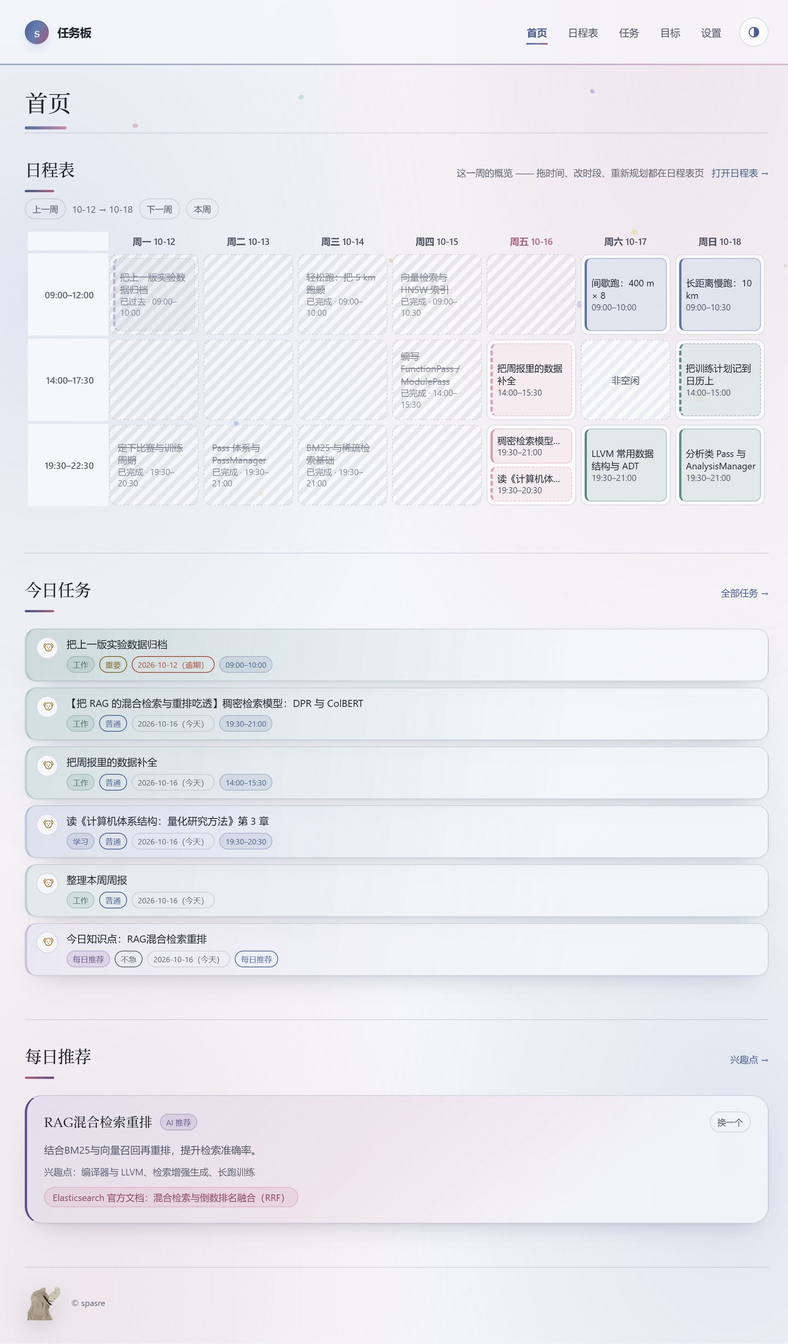
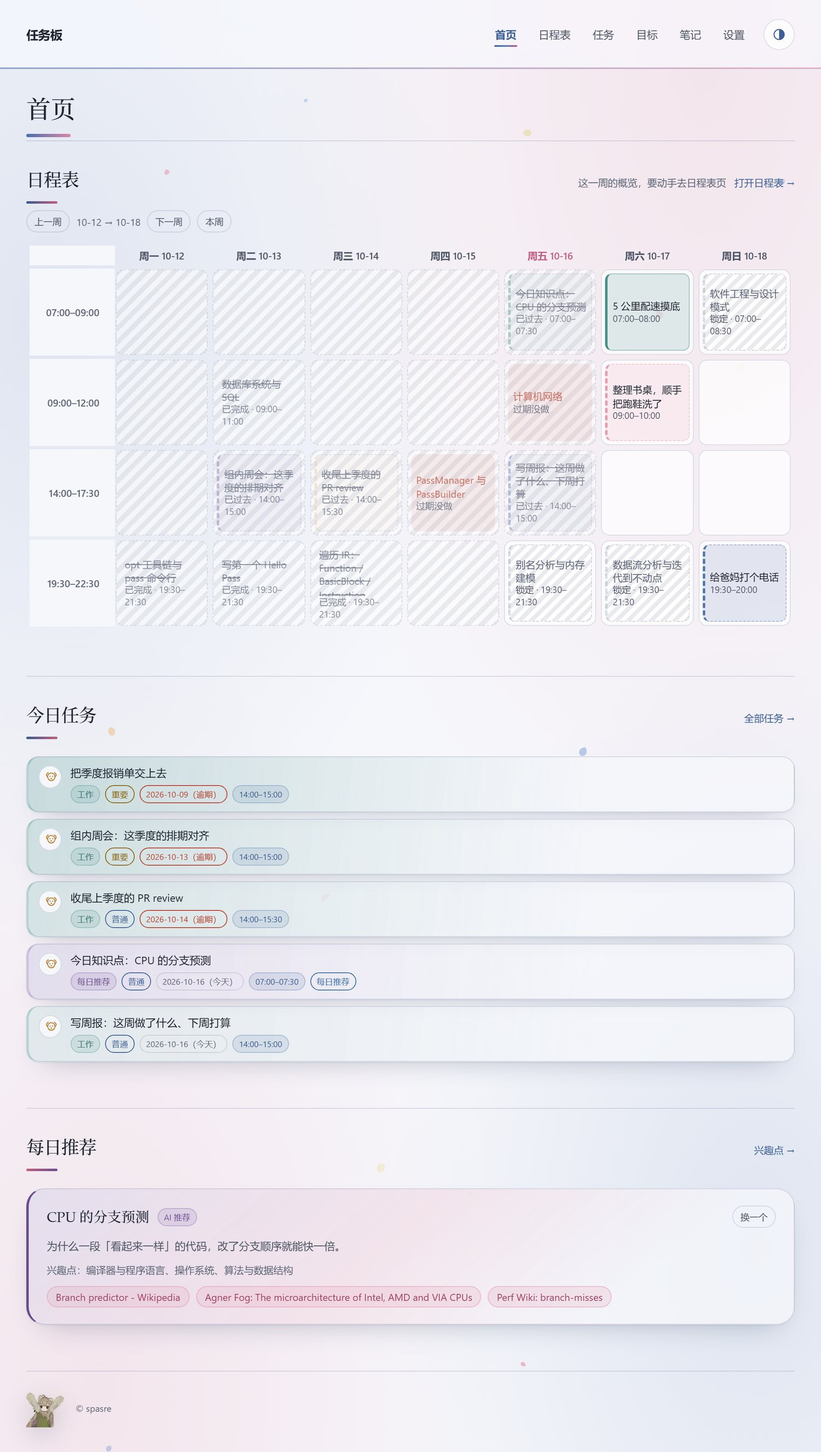
README 配图重拍（含笔记页与新建目标向导），文档补齐
10 张图重拍，示范数据重造了一份（3 个目标 27 个知识点、四个分类、前后两周都排满，外加 5 篇笔记）：

- 新增 notes.jpg（笔记页：分类 / 列表 / 编辑，挂着知识点的那篇）和 wizard.jpg（新建目标第三步：
  文本大纲 + 跟助手改稿的对话框 + 改完重画的路线图）。
- 周视图换更宽的视口截，七天都看得见（之前窄窗口下周四天被挤到横向滚动里）；任务页整页截，
  右下角那个 ＋ 也就落在该在的位置上了；目标页只截一张半卡片；月视图单独一张大图；
  日视图把 24 小时全摊出来。
- 页眉没「s」了，图跟着重拍一遍。

README：

- 补「### 新建目标：两种起手式」「### 笔记页」「④ plan.outline（改 / 读）」，几个页面表加笔记页。
- 修掉和现状对不上的地方：第三步现在带改稿对话框、四步向导第一步改成「目标」、延伸阅读入口只剩
  点任务标题（「资料」角标早就不存在了）、数据表补 store.notes / 笔记分类 / spasre-tasks-dirty、
  同步那一节补「本地比后端新就把本地推上去」。
- QUICKSTART：第三步拆成两种起手式的写法，补一节笔记页。
- DEVELOPMENT：目录结构补 notes.html / notes.js / plan_outline.py，技能怎么被用上补两行，
  路线图那一节补「画完后注入的三段样式与笔记按钮」，新增「数据存在哪、切页和多标签怎么不打架」。

diff --git a/README.md b/README.md
@@ -4,7 +4,7 @@
 
 它最不一样的地方是**把「长期目标」当成一等公民**：你说一句「我想学会写 LLVM 优化 pass」，它给你拆成一条带前置依赖的知识点路线，画成一张可以缩放的路线图，按你每周能投入的时间**整份排进日程表**，之后你在表上拖一拖改时间就行。想清楚了再执行，而不是每天对着一个空清单发呆。
 
-<img src="./assets/images/readme/home.jpg" alt="首页：这一周的概览 + 今日任务 + 每日推荐" width="720">
+<img src="./assets/images/readme/home.jpg" alt="首页：这一周的概览 + 今日任务 + 每日推荐" width="780">
 
 ## 规划是怎么做出来的
 
@@ -14,60 +14,84 @@
 
 **② `diagram.roadmap`（画路线图）** —— 把上面那张 DAG 交给后端，用 vendored 的 **Archify**（`skills/vendor/archify`，它会把图校验一遍再渲染）画成一张**能缩放、能导出的独立 HTML**，直接嵌在目标卡里：
 
-<img src="./assets/images/readme/roadmap.jpg" alt="Archify 画出来的学习路线图：分阶段的节点 + 前置连线，独立 HTML，能缩放也能导出" width="720">
+<img src="./assets/images/readme/roadmap.jpg" alt="Archify 画出来的学习路线图：分阶段的节点 + 前置连线，做完的知识点描边标绿、角上带 ✓ 已完成；独立 HTML，能缩放也能导出" width="780">
 
 **③ `reading.suggest`（找延伸阅读）** —— 每一条知识点（或任务）的「延伸阅读」都由配好的模型现找，后端的 `reading.suggest` 会**挨个真去请求一遍**，404 / 连不上的直接丢掉，所以编出来的链接回不来：
 
-<img src="./assets/images/readme/reading.jpg" alt="延伸阅读：助手找的三条资料，都验证过能打开" width="720">
+<img src="./assets/images/readme/reading.jpg" alt="延伸阅读：点任务标题就能看助手现找的资料，每条都是它真去请求过的" width="780">
 
 > 没配模型也能用：`learn.curriculum` 有内置的模板兜底（按「打基础 → 上手练习 → 深入原理 → 综合实践 → 输出总结」五步排），拆任务、挑推荐知识点也都有本地方案。只有「延伸阅读」和「路线图」需要后端在跑。
 
-## 五个页面
+**④ `plan.outline`（改 / 读）** —— 手上那份大纲要改一版，或者要把别处的规划读成知识点，都走它。回来的还是同一份大纲格式（前置写标题，前端换成 id），所以改完路线图能马上跟着重画。
+
+### 新建目标：两种起手式
+
+点右下角 ＋ → 新建目标，先选用哪种：
+
+- **① 先定方向**：只写目标名，加一句补充说明就够。点「下一步」先把大纲出好，顺手按「每条约 1.5 小时 ÷ 每周投入」给一个建议完成时间（先试 `learn.curriculum`：硬核领域它会先抓一份教程大纲再拆）。
+- **② 粘贴现成规划**：在别处（另一个 AI、教程、课程安排）聊好的计划，整段贴进来。助手读一遍拆成知识点，把原文里的先后关系、时间范围一起带出来，再用一句话说清「读到了什么、哪处不确定要你核对」。
+
+**第三步两条路一样**：大纲和路线图摆在那儿，下面一个对话框，跟助手一句句改（「第 2 条拆细一点」「太细了，合并一下」「再加一条：读源码」），改完大纲和路线图一起更新；直接改列表里的标题 / 链接也行。觉得可以了按「下一步」，最后「完成，去日程表安排」—— 知识点整份排进日程表。
+
+<img src="./assets/images/readme/wizard.jpg" alt="新建目标第三步：文本大纲、跟助手一句句改稿的对话框，和改完重画的学习路线图" width="780">
+
+## 各个页面
 
 | 页面 | 干什么 |
 | --- | --- |
 | **首页** `index.html` | 这一周日程表的概览 + 今日任务 + 今日推荐的知识点（配图见最上面那张） |
 | **日程表** `schedule.html` | 周 / 日 / 月三种看法，拖时间、改时段、重新规划、待安排都在这页 |
-| **任务** `tasks.html` | 全部任务（今天 / 明天 / 本周内 / 以后 / 未排期），写一句话丢给助手就能拆成几条 |
+| **任务** `tasks.html` | 全部任务（今天 / 明天 / 本周内 / 以后 / 未排期），每条都能开一篇笔记 |
 | **目标** `goals.html` | 长期目标 → 知识点大纲 → 学习路线图 → 同步进日程表 |
+| **笔记** `notes.html` | 分类管着的一堆笔记，能挂到具体任务或知识点上 |
 | **设置** `settings.html` | 兴趣标签（含每日推荐开关）、助手配置与导入导出、外观（密度 / 字号） |
 
 新建任务、新建目标都收在右下角的 **＋** 里；主题（跟随系统 / 亮色 / 暗色）在页眉右上角的圆按钮上循环切。
 
 ### 日程表：一周怎么用
 
-<img src="./assets/images/readme/schedule-week.jpg" alt="周视图：一列一天，一行一段时间（划成非空闲的格子是灰斜纹）" width="720">
+<img src="./assets/images/readme/schedule-week.jpg" alt="周视图：一列一天，一行一段时间（做完的是绿字，过期的红字，划成非空闲的格子是灰斜纹）" width="780">
 
 - **单元格 = 一天 × 一段时间**。一天切成哪几段（这里是 09:00–12:00 / 14:00–17:30 / 19:30–22:30）在设置里改，或点行首的时间标签就地改。
 - **拖任务块 = 换时间**：拖到空闲格子上松手就换过去（能接的格子会变虚线）。一格能叠好几项，但**总时长不能超过这一段**，超了会提示然后撤销这次操作。
-- **点空格 = 划成非空闲**（再点一下放开），默认按「每周这一天」记：划掉周四晚，以后每周四都算忙，排期自动绕开。
+- **点空格 = 划成非空闲**（再点一下放开），**默认按「每周这一天」记**：划掉周四晚，以后每周四这一格都算忙，排期自动绕开。
 - **待安排**在最上面：还没排期的知识点、以及在任务页点过「加入日程表」的任务都列在这儿，拖进格子就排好了。
 
 ### 日程表：日视图
 
 一天 24 小时摊成一条时间轴（像日历那样），每一段按自己的开始 / 结束时刻画成一块，里面摆当天排在这段上的知识点和任务；红线是「现在几点」。这一屏只用来「看」，排任务都在周视图那张表上做：
 
-<img src="./assets/images/readme/schedule-day.jpg" alt="日视图：24 小时时间轴，任务落在对应时段里" width="720">
+<img src="./assets/images/readme/schedule-day.jpg" alt="日视图：一天 24 小时摊成一条时间轴，任务落在自己的时段里" width="780">
 
 ### 日程表：月视图
 
 一天一格，格子里一个**彩点**表示那天的完成情况 —— 蓝=有安排还没做、**绿=全做完**、红=有逾期没做、灰=没安排；格子右下角写 `已完成/总数`，鼠标移上去列出那天具体有什么，点一下就钻到那天的日视图：
 
-<img src="./assets/images/readme/schedule-month.jpg" alt="月视图：一天一格，彩点看完成情况，格子里写着已完成/总数" width="720">
+<img src="./assets/images/readme/schedule-month.jpg" alt="月视图：一天一格，彩点看完成情况，格子里写着已完成/总数" width="780">
 
 ### 任务页
 
-<img src="./assets/images/readme/tasks.jpg" alt="任务页：按时间分组（已逾期/今天/明天/本周内/以后/未排期），每条能加入日程表、编辑、删除" width="720">
+<img src="./assets/images/readme/tasks.jpg" alt="任务页：按时间分组（已逾期/今天/明天/本周内/未排期），四个分类各一种颜色，每条能改时段、开笔记、编辑、删除" width="780">
+
+### 笔记页
+
+笔记分门别类放着：左边是分类（默认「随手记 / 复盘 / 资料」，可以自己加），中间是这个分类下的笔记列表，右边直接写。
+
+<img src="./assets/images/readme/notes.jpg" alt="笔记页：左边分类、中间列表、右边编辑，能建分类、能关联任务或知识点" width="780">
+
+- **和任务、知识点挂上**：在任务卡上点「笔记」，或者在路线图的节点面板上点「笔记」—— **已经有笔记就打开那一篇，没有就新建一篇**（标题自动用任务名 / 知识点名，关联也一起记上）。
+- 笔记能改分类（下拉最后一项是「＋ 新建分类…」），也能重新选关联的任务；列表里会写清这篇挂在哪。
+- 写完自动存（停手 0.6 秒落盘），跟着看板数据一起进后端，换台设备打开也是这些。
 
 ### 目标页
 
 目标卡：上面是「下一个」和进度，下面就是知识点大纲（默认折叠）和嵌在卡里的学习路线图：
 
-<img src="./assets/images/readme/goals.jpg" alt="目标页：目标卡里的「下一个」、文本大纲，和嵌在卡里的学习路线图" width="720">
+<img src="./assets/images/readme/goals.jpg" alt="目标页：目标卡里的「下一个」、文本大纲，和嵌在卡里的学习路线图" width="780">
 
 ## 计划生成好了，你能怎么改
 
-这一版特意**没做**「在页面上手工加删知识点」那种编辑器 —— 计划是生成出来给你执行和微调的，不是拿来当画板画的。能改的地方是这些：
+计划是生成出来执行和微调的，不是拿来当画板画的。能改的地方是这些：
 
 - **改时间**：日程表上把任务块拖到别的格子；或者点任务卡上的「改时段」，会跳到它所在的那一周/那一天并打开面板，在面板里挑日期 / 时段 / 时长。一格容量超了会被挡下来。
 - **改时间段**：点日程表行首的时间标签（或「添加时间段」）就地改开始 / 结束、删掉、加一段；有重叠、没填完、结束早于开始都不让保存，顶部会说清哪儿不对。
@@ -104,8 +128,9 @@ python server.py --lan      # 双击 serve.ps1 也行；--lan 让同一个 WiFi 
 
 | 位置 | 内容 |
 | --- | --- |
-| `config/data.json` | 全部数据：任务、回收站、长期目标与知识点、日程表（`schedule.busy` = 用户划掉的非空闲段）、分类、设置、兴趣点、当日推荐（带一个自增的 `rev` 版本号） |
+| `config/data.json` | 全部数据：任务、回收站、长期目标与知识点、**笔记与笔记分类**、日程表（`schedule.busy` = 用户划掉的非空闲段）、分类、设置、兴趣点、当日推荐（带一个自增的 `rev` 版本号） |
 | `localStorage["spasre-tasks-v1"]` | 同一份数据的兜底副本，只在后端不可达时用（比如 `serve.ps1 -Static` 起的纯静态服务） |
+| `localStorage["spasre-tasks-dirty"]` | 本地改动还没推上去的时间戳（跟后端那份比谁新用，推上去了就清掉） |
 | `.env`（项目根目录） | 助手配置（接口地址 / 模型 / 密钥），后端读写的就是这个文件 |
 | `localStorage["spasre-theme"]` | 明暗模式偏好（`light` / `dark`；没这项就是跟随系统） |
 | `localStorage["spasre-look"]` | 外观：密度（`comfy` / `compact`）和字号（`small` / `normal` / `large`） |
@@ -119,7 +144,7 @@ python server.py --lan      # 双击 serve.ps1 也行；--lan 让同一个 WiFi 
 同步怎么走：
 
 - 打开页面先用本地那份画出来，接着拉后端：后端有数据就以后端为准重画；后端是空的而本地有数据，就把本地这份推上去（第一次迁移）。
-- 之后任何改动都是「先写本地，再防抖 400ms 推后端」。
+- 之后任何改动都是「先写本地，再防抖 400ms 推后端」。**本地这份还没推上去时（比如刚点完完成就切页、或者那一下写盘没成功），本地的时间戳更新，刷新后会反过来把本地推上去**，不会被后端那份旧的盖回来；切页 / 关标签页前还会用 `sendBeacon` 把攒着的改动补推一次。
 - 页面每 5 秒轮询一次，`rev` 比本地新就整份换掉并重画 —— 所以在手机上加一条任务，电脑上最多 5 秒就能看到。
 - 写盘偶尔会失败（Windows 上目标文件被杀软 / 索引器短暂占住，`os.replace` 会报 WinError 5）：后端会退避重试几次，前端推不上去也会隔 700ms 再试两次，别让改动悄悄丢掉。
 - 后端没起（纯静态）时全部逻辑照旧走本地，不会报错。
@@ -150,9 +175,11 @@ python server.py --lan      # 双击 serve.ps1 也行；--lan 让同一个 WiFi 
 
 ## 长期目标是怎么排出来的
 
-新建目标是一个四步向导（右下角 ＋）：**学习目标 → 预期完成时间 → 大纲 → 每日任务**。
+新建目标是一个四步向导（右下角 ＋）：**目标 → 完成时间 → 大纲 → 每日任务**。第一步先选怎么起手（见上面「新建目标：两种起手式」）：只写一句方向，或者把别处聊好的规划整段贴进来。
 
-**进第三步就一次做完，没有单独的按钮**：生成知识点 → 拼出大纲 → 画学习路线图，状态行里报进度（例：`14 个知识点 · 模型生成 · 学习路线图 3.5 秒`）。三步里的第一步由 `generateNodes()` 完成：**模型 → 后端 `learn.curriculum` 技能 → 内置模板**，逐级回退。
+**第三步一次做完**：生成知识点 → 拼出大纲 → 画学习路线图，状态行里报进度（例：`14 个知识点 · 模型生成 · 学习路线图 3.5 秒`）。知识点由 `generateNodes()` 出：**模型 → 后端 `learn.curriculum` 技能 → 内置模板**，逐级回退。
+
+- 第三步的**对话框**就是改稿的地方：说一句要改什么（「第 2 条拆细一点」「太细了，合并一下」「再加一条：读源码」），它走 `plan.outline` 改完大纲、顺手把图重画一版，来回几轮都行；也可以直接在下面的列表里改标题 / 链接 / 删节点。用「粘贴现成规划」起手的话，进第三步第一眼就是它读出来的那份，不合适接着聊着改。
 
 - 每个节点带一条**教程链接**（模型挑的，或技能阶段资料来源），生成后可以在下面的列表里**改标题、改链接、删节点**，上面的大纲跟着变；这时挂着的那张图会被标成旧的，旁边出现「重新画一张」。（**结构本身（加删知识点、连 / 断前置）不在页面上改**：想换一套计划就按目标卡上的「重新生成计划」。）
 - 学习路线图交给后端的 `diagram.roadmap`（Archify）：画成一张能缩放、能导出的 HTML，画完就在向导里内嵌预览。地址存进目标的 `diagram` 字段，**目标卡上默认就把图摆出来**（点「收起路线图 / 展开路线图」折叠；重画卡片会把 iframe 接过来接着用，不会每次都重新加载）。卡上还没有图时（比如节点改过、旧图作废了），那儿会留一个 **「画一张路线图」**，点一下现画，不用绕回向导。
@@ -162,18 +189,18 @@ python server.py --lan      # 双击 serve.ps1 也行；--lan 让同一个 WiFi 
 - 第四步的按钮是 **「完成，去日程表安排」**：**计划在这一步就整份排好**（按空段把知识点一个个排进去，不用自己拖），然后**直接跳到日程表页** —— 在那儿看着改就行；没有空位的会留在日程表顶上的「待安排」里，放开一些时间再按「同步」/「重新规划」。已经全部排好的目标（比如回头编辑）就不跳了，只留一行状态。
 - 目标卡右上角的 **「同步」** 用来把还没排期的知识点排进空段（别的目标手上排好的不动）。**「重新生成计划」之后也会顺手排好一整份**，不用再点一次同步。**第一次排期会先弹一个设置面板**（见下面「第一次排期」）。
 - 卡上还有一行 **「下一个」**：现在该做哪个知识点、排在什么时候、一共完成几个，一眼看完；大纲收在标题下面（默认折叠，点「文本大纲」展开，展开就是整份计划 —— 不截高度），图摆在它上面。
-- **路线图是只读的**：知识点、前置（图上的边）都只在生成 / 「重新生成计划」时定一次，页面上不提供加删或连断 —— 想换一套，就按目标卡上的 **「重新生成计划」** 让助手按当前目标重排一份（旧的排期会被新计划覆盖），或者干脆「删除」后重新建一个目标。
+- **路线图是只读的**：知识点、前置（图上的边）都只在生成 / 「重新生成计划」时定一次，页面上不提供加删或连断 —— 想换一套，就按目标卡上的 **「重新生成计划」** 让助手按当前目标重排一份，或者干脆「删除」后重新建一个目标。**做完的知识点在图上标成绿色、写「✓ 已完成」**。
 - 知识点内部是一张 **DAG**：节点是知识点，边表示「先学这个才能学那个」；页面上只把它写成文本大纲。
   - 模型给回来的依赖会先清洗：认不出的人、指向自己的、重复的、成环的边全部丢掉（成环用 DFS 找回边切断）。
   - 节点按**最长路径**分层，同层横排居中，边只从上一层连到下一层。
   - 排期按拓扑序来，前置一定排在后继前面。
 - **没配模型**：先试后端的 `learn.curriculum` 技能（后端在的时候，它会按目标复杂度决定要不要先查资料），技能没跑通再走内置模板，按「打基础 → 上手练习 → 深入原理 → 综合实践 → 输出总结」五步排，每个知识点带一句说明和验收标准。
 - **配了模型**：把目标 + 补充说明发过去，要求只输出 `{"reply", "nodes":[{"title","brief","deps","links"}]}`；模型没给出可用的东西时，自动按「技能 → 内置」往下退。
-- 点任务标题（或者那一行右边的「资料」角标）弹出**延伸阅读**：打开就问一次助手，让它按标题找几条，`reading.suggest` 会**挨个真去请求一遍**，404 / 连不上的直接丢掉，所以编出来的链接回不来。找回来的存在任务上，下次打开直接显示；不满意可以按「换一批资料」。要跑这条得**后端在跑**（它替浏览器调模型），所以后端没起的时候弹窗会直说是「本机后端没在跑，起一下 serve.ps1 再点」；后端在跑但没配助手，才会提示你去设置页填接口地址和密钥。
+- 点任务标题弹出**延伸阅读**：打开就问一次助手，让它按标题找几条，`reading.suggest` 会**挨个真去请求一遍**，404 / 连不上的直接丢掉，所以编出来的链接回不来。找回来的存在任务上，下次打开直接显示；不满意可以按「换一批资料」。要跑这条得**后端在跑**（它替浏览器调模型），所以后端没起的时候弹窗会直说是「本机后端没在跑，起一下 serve.ps1 再点」；后端在跑但没配助手，才会提示你去设置页填接口地址和密钥。目标卡里每一条知识点的资料链接则在向导第三步的列表里改。
 
 ## 日程表
 
-日程表在**自己的一页**（`schedule.html`，导航栏第二项）：一周一张网格，**分段直接在网格上改** —— 点左边的行首标签（比如「19:30–22:30」）就在下面弹出这一段的开始 / 结束 —— **直接手输就行**（`2130` / `930` / `9` / `21:30` 都认，回车或点别处生效），改完按 **「保存」**；面板里还有「删掉这段」，要加段就用右上角的 **「添加时间段」**。首页那份只剩**这一周的概览**（块儿不给拖也不给点，悬停提示也只写「谁 · 几点到几点 · 多久」，不带操作引导），要动手就点日程表标题**右上角那个「打开日程表 →」**。
+日程表在**自己的一页**（`schedule.html`）：一周一张网格，改时间段直接在网格上点左边行首的标签（比如「19:30–22:30」），弹出开始 / 结束的输入框 —— **手输就行**（`2130` / `930` / `9` / `21:30` 都认），按「保存」生效；要加段用右上角的「添加时间段」。首页那份只剩这一周的概览（块儿不给拖），要动手点标题右边的「打开日程表 →」。
 
 **三种看法**（右上角周 / 日 / 月，选过一次就记住）：
 
@@ -257,14 +284,15 @@ python server.py --lan      # 双击 serve.ps1 也行；--lan 让同一个 WiFi 
   所以「周一晚上 19:30–21:00 学什么」是被算出来的，不是拍出来的；
 - **反过来也成立**：日程格子里的完成情况、过期没做的、被卡住的下游，都会回到目标进度上。
 
-所以四个页面看起来是四件事，其实是同一张网的四个切面：**Goal 决定要做什么，Weave 决定什么时候做**。
+所以几个页面看起来是几件事，其实是同一张网的几个切面：**Goal 决定要做什么，Weave 决定什么时候做**。
 
-五页分工：
+六页分工：
 
 - **首页**（`index.html`）：这一周日程表的概览 + 今日任务 + 今日推荐的知识点
 - **日程表**（`schedule.html`）：周 / 日 / 月三种看法，拖时间、改时段、重新规划、待安排都在这一页
 - **任务**（`tasks.html`）：任务列表、分类与筛选、回收站，以及助手对话框和聊天记录
 - **目标**（`goals.html`）：长期目标 → 知识点大纲 → 学习路线图 → 同步进日程表
+- **笔记**（`notes.html`）：按分类放的笔记，能挂到某条任务或某个知识点上
 - **设置**（`settings.html`）：兴趣标签（含每日推荐开关）、助手配置与导入导出、外观（密度 / 字号）
 
 新建任务、新建目标都收在右下角的 **＋** 里；主题（跟随系统 / 亮色 / 暗色）在页眉右上角的圆按钮上循环切。

diff --git a/QUICKSTART.md b/QUICKSTART.md
@@ -25,14 +25,28 @@ cd task_board
 
 ## 3. 建第一个目标
 
-右下角 **＋ → 新建目标**，四步：
+右下角 **＋ → 新建目标**，四步。第一步先选怎么起手：
 
-1. **学习目标**：一句人话，比如「学会写 LLVM 优化 pass」。
-2. **完成时间**：默认今天起 28 天，每周投入几小时。
-3. **大纲**：这一步会一次做完 —— 拆知识点 → 拼大纲 → 画学习路线图，状态行里报进度。生成完可以在下面的列表里改标题、改链接、删节点。
+**① 先定方向**（只有一句想法时用这个）
+
+1. **学习目标**：一句人话，比如「学会写 LLVM 优化 pass」。填完它就先把大纲拉出来，并给一个建议完成时间。
+2. **完成时间**：默认今天起 28 天、每周投入几小时；上面那行「建议 ……」是助手按大纲估的，点一下就采用。
+3. **大纲**：左边是知识点列表（改标题、改链接、删节点），右边是这个目标的**对话区** —— 「太密了，砍到 10 个」「先补基础再上 pass」这类话直接说，它会改完大纲顺手重画路线图，来回几轮都行。
 4. **每日任务**：只看一眼「这次要花多久」，点 **「完成，去日程表安排」**。
 
-点完它会**把整份计划按空段排进日程表**，然后跳到日程表页 —— 在那儿拖时间、改时段，或者按「重新规划」整体重排都行，不用一个个拖。
+**② 粘贴现成规划**（已经和某个 AI 聊出计划了）
+
+第一步切到「粘贴现成规划」，把它给的那段规划（带周次、时间、学习目标那种）整段贴进来。它会读成一份
+知识点列表，并认出规划里提到的完成时间；第二步起和上面一样 —— 该改的还能在第三步接着改。
+
+点完 **「完成，去日程表安排」**，它会**把整份计划按空段排进日程表**，然后跳到日程表页 —— 在那儿拖时间、
+改时段，或者按「重新规划」整体重排都行，不用一个个拖。
+
+## 4. 知识点旁边随手记
+
+任何任务卡片、路线图上任何一个知识点，都有 **「笔记」** 按钮：已经有笔记就直接打开，没有就新建一条挂上去。
+底部导航的 **「笔记」** 页里是全部笔记，左边分类（可以自己加）、中间列表、右边正文编辑（自动保存），
+每条笔记能关联到具体任务或知识点。想从头新建就去那一页，不用先找任务。
 
 ## 想以新用户的身份试一遍
 
@@ -109,4 +123,4 @@ python server.py --lan
 
 **模型接口连不上**：先在设置页点「测试连接」，它会把状态码翻译成人话（401 密钥不对、404 地址不对、429 额度用完…）。本地模型（Ollama 之类）密钥留空即可；浏览器直连被 CORS 挡住时，只要后端在跑就会自动代发。
 
-**没配模型能用到什么程度**：拆任务、排学习计划、挑推荐知识点都有内置方案兜底；学习路线图和延伸阅读需要模型 + 后端（路线图还额外需要 Node.js ≥ 18 和 vendored 的 Archify，它是 Node 跑的）。
+**没配模型能用到什么程度**：拆任务、排学习计划、挑推荐知识点都有内置方案兜底；「粘贴现成规划」没模型也能按行拆，只是读得糙一点；学习路线图和延伸阅读需要模型 + 后端（路线图还额外需要 Node.js ≥ 18 和 vendored 的 Archify，它是 Node 跑的）。
